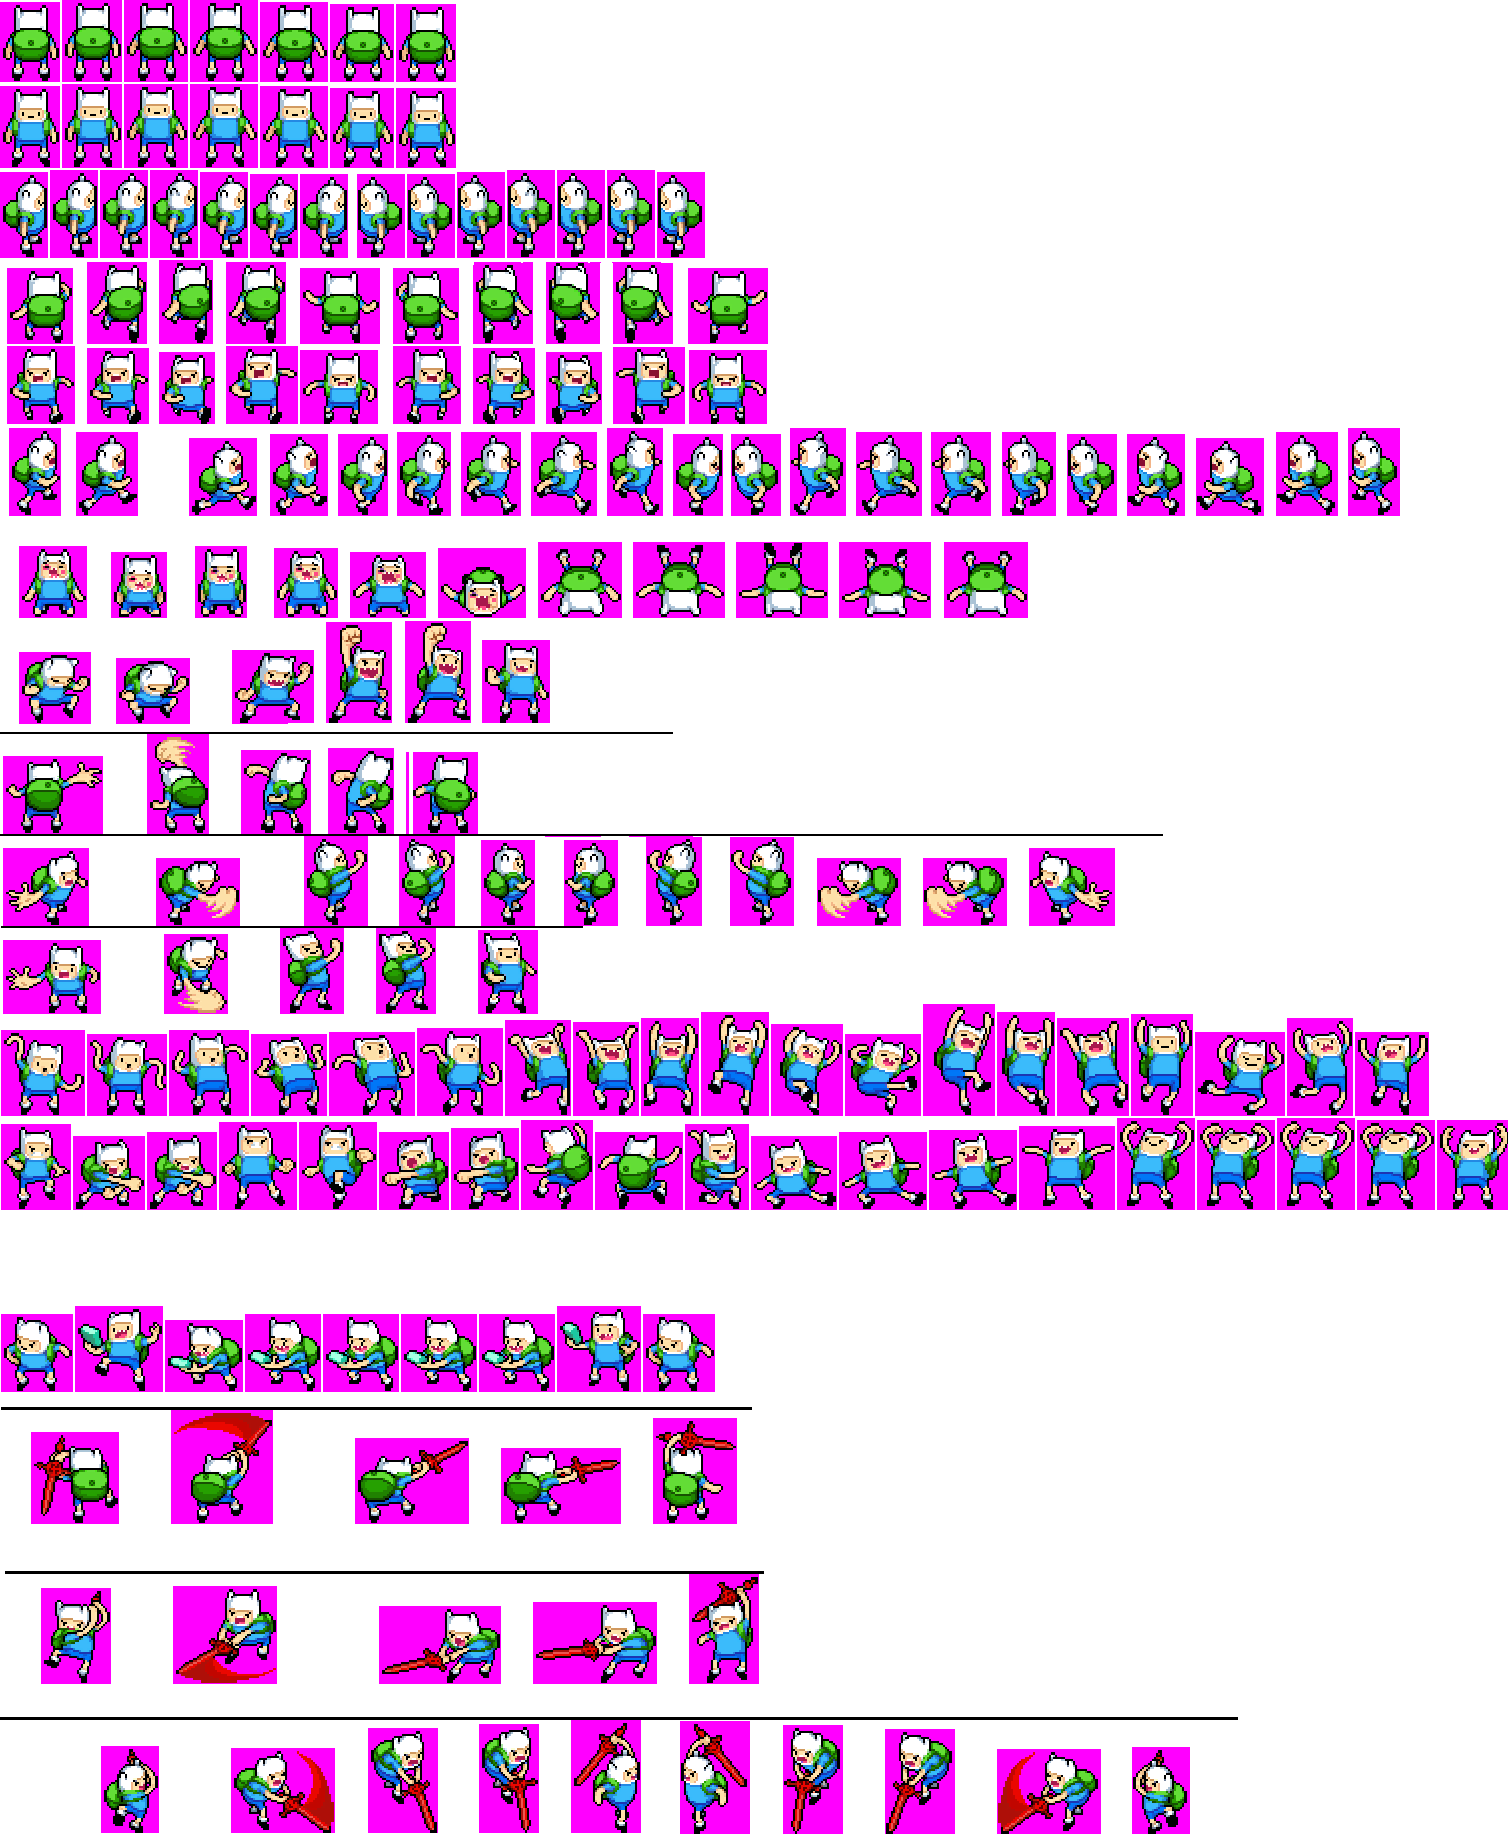
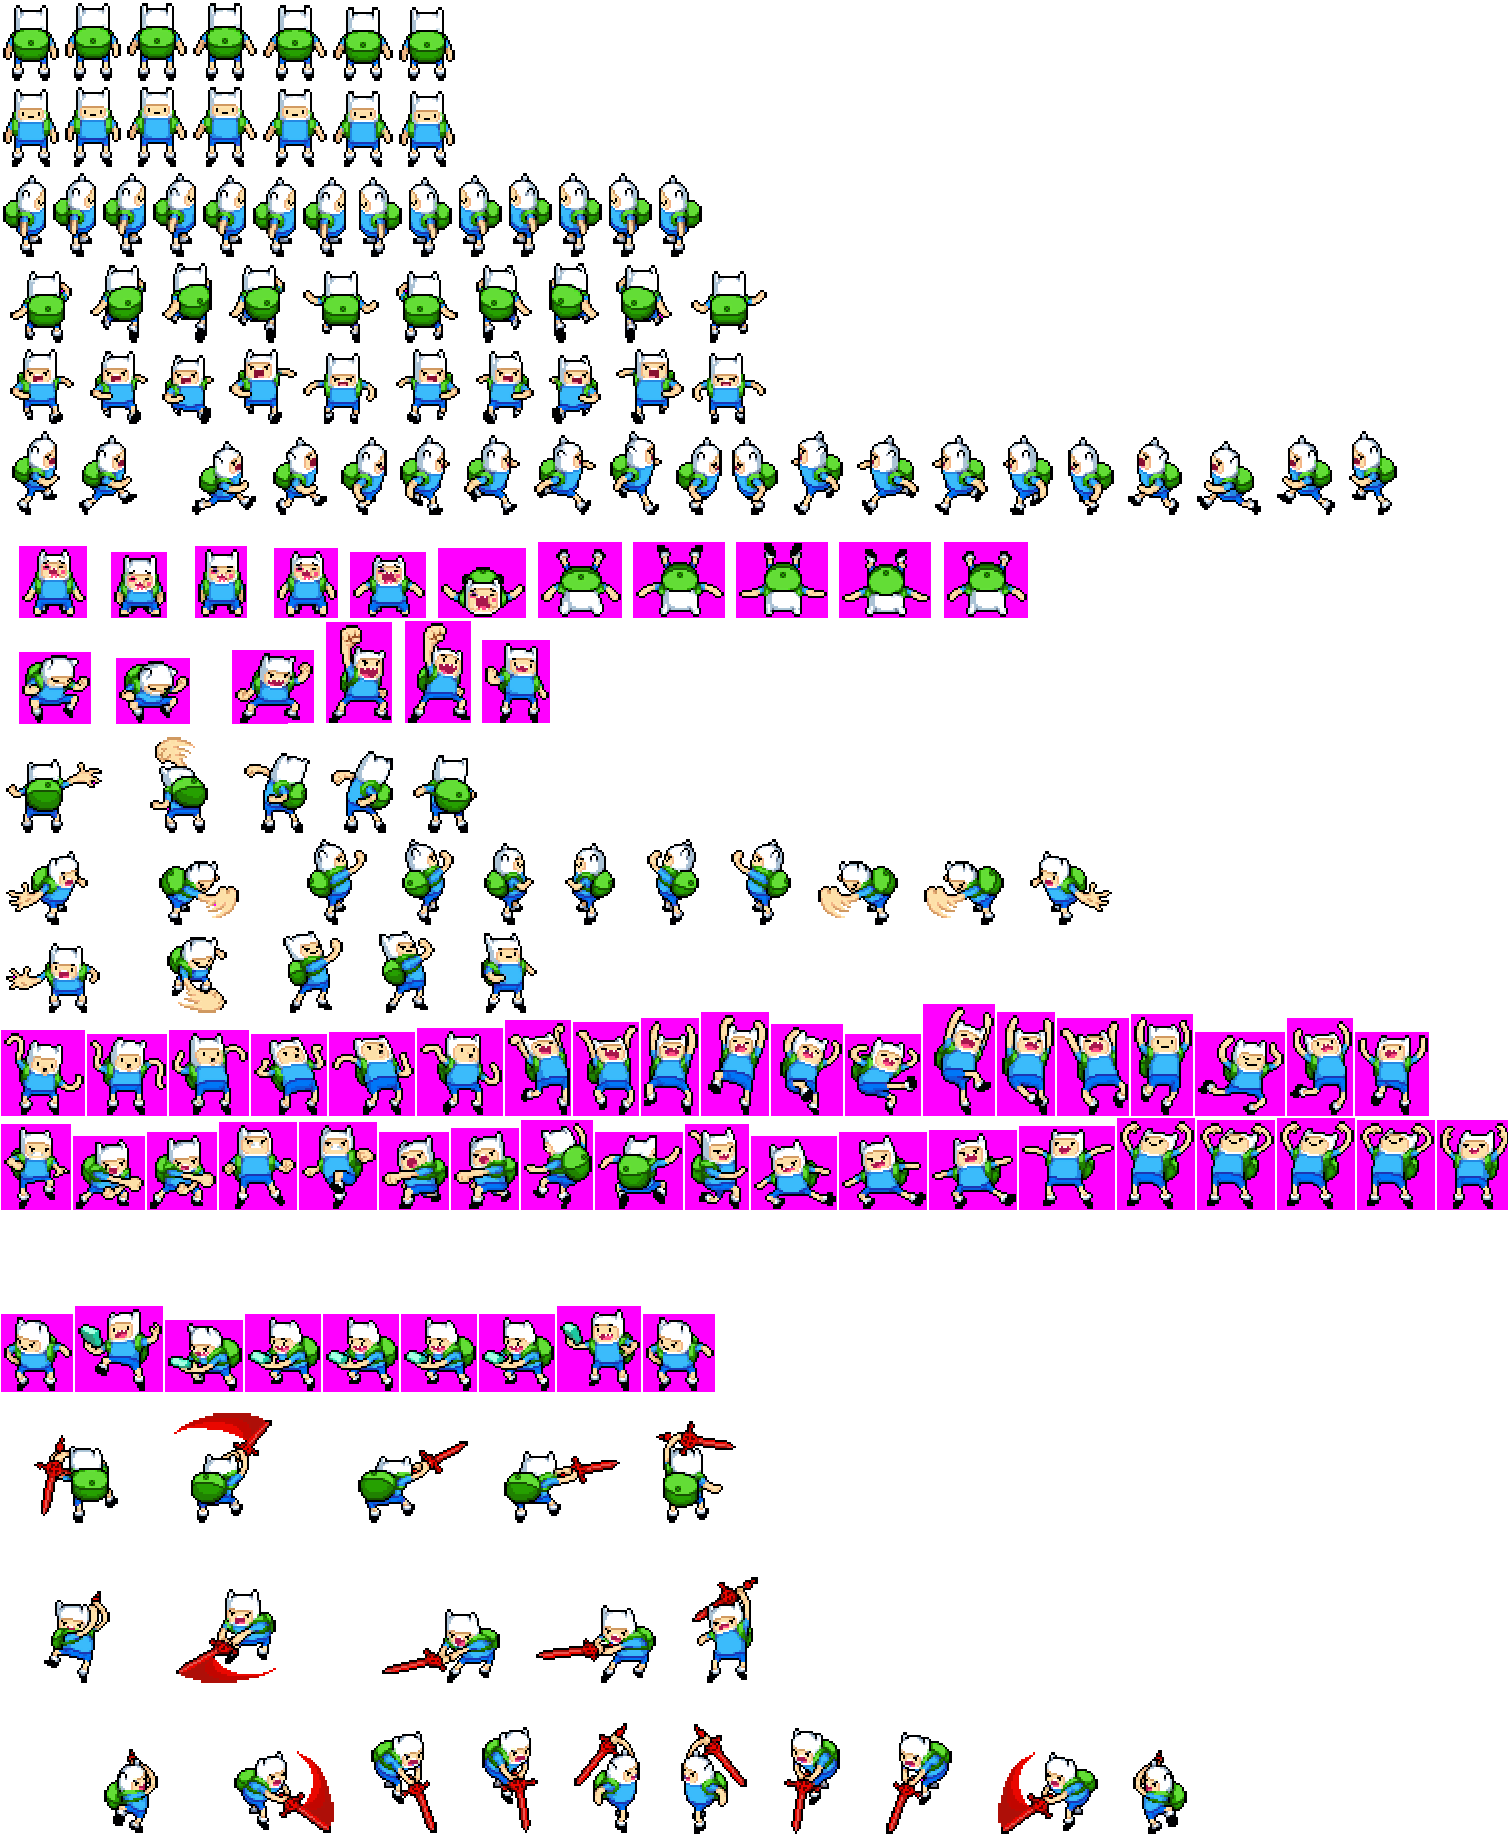
Glow effect sur les entitées vivantes. Un peu de toshop sur la sprite de finn.png

Changed region(s): [[0.0, 0.0, 0.935, 0.2797], [0.0, 0.7459, 0.8103, 1.0], [0.0, 0.373, 0.748, 0.5594]]

diff --git a/PFA - V2/GameScreen.cpp b/PFA - V2/GameScreen.cpp
@@ -9,11 +9,12 @@
 #include "Water.h"
 #include "Tree.h"
 #include "MapEnvironment.h"
-#include					"Singleton.h"
-#include					"ImageManager.h"
+#include "Singleton.h"
+#include "ImageManager.h"
 #include "Campfire.h"
 #include "Wood.h"
 #include "WoodenPlank.h"
+#include "ShadersManager.h"
 
 std::string &GameScreen::serialize() const
 {
@@ -273,13 +274,60 @@ void GameScreen::draw()
 
 		this->_map->draw(Singleton::getInstance()._window);
 
+
+
+		//sf::Vector2f savePos;
+		//if (_entitiesMap[i][j]._component != NULL && _entitiesMap[i][j]._component->getIsAMovingEntity() == false)
+		//{
+		//	savePos = _entitiesMap[i][j]._component->getPosition();
+		//	_entitiesMap[i][j]._component->setPosition(sf::Vector2f((j - _camera->_position.x) * Chunk::SIZE_OF_CELL
+		//		, (i - _camera->_position.y) * Chunk::SIZE_OF_CELL - 20));
+		//	sf::Vector2i mousePos = sf::Mouse::getPosition(*Singleton::getInstance()._window);
+
+		//	sf::Vector2f finalPos;
+
+		//	finalPos.x = (float)mousePos.x / (float)Chunk::SIZE_OF_CELL + static_cast<float>(_camera->_position.x);
+		//	finalPos.y = (float)mousePos.y / (float)Chunk::SIZE_OF_CELL + static_cast<float>(_camera->_position.y);
+
+		//	if ((int)finalPos.x == j && (int)finalPos.y == i)
+		//	{
+		//		_entitiesMap[i][j]._component->draw(_mapTexture, *ShadersManager::getInstance().get(BLOOM));
+		//	}
+
+
+
+
 		for (auto it = _players.begin(); it != _players.end(); ++it)
 		{
-			(*it)->draw(NULL);
+			sf::Vector2f savePos;
+			savePos = (*it)->getPosition();
+			sf::Vector2i mousePos = sf::Mouse::getPosition(*Singleton::getInstance()._window);
+			sf::Vector2f finalPos;
+
+			finalPos.x = (float)mousePos.x / (float)Chunk::SIZE_OF_CELL + static_cast<float>(_map->_camera->_position.x);
+			finalPos.y = (float)mousePos.y / (float)Chunk::SIZE_OF_CELL + static_cast<float>(_map->_camera->_position.y);
+
+			sf::FloatRect mouseRect(sf::Vector2f(mousePos), sf::Vector2f(2, 2));
+			if (mouseRect.intersects((*it)->getBoxCollider()))
+				(*it)->draw(_map->_mapTexture, *ShadersManager::getInstance().get(BLOOM));
+			else
+				(*it)->draw(NULL);
 		}
 		for (auto it = _entities.begin(); it != _entities.end(); ++it)
 		{
-			(*it)->draw(NULL);
+			sf::Vector2f savePos;
+			savePos = (*it)->getPosition();
+			sf::Vector2i mousePos = sf::Mouse::getPosition(*Singleton::getInstance()._window);
+			sf::Vector2f finalPos;
+
+			finalPos.x = (float)mousePos.x / (float)Chunk::SIZE_OF_CELL + static_cast<float>(_map->_camera->_position.x);
+			finalPos.y = (float)mousePos.y / (float)Chunk::SIZE_OF_CELL + static_cast<float>(_map->_camera->_position.y);
+
+			sf::FloatRect mouseRect(sf::Vector2f(mousePos), sf::Vector2f(2, 2));
+			if (mouseRect.intersects((*it)->getBoxCollider()))
+				(*it)->draw(_map->_mapTexture, *ShadersManager::getInstance().get(BLOOM));
+			else
+				(*it)->draw(NULL);
 		}
 		drawSelectionZone();
 
@@ -379,8 +427,8 @@ void GameScreen::update(void)
 	{
 		(*it)->update(*_map);
 		if ((*it)->_objective)
-			if ((*it)->_objective->getLife() <= 0 && (*it)->_objective->getIsAMovingEntity())
-				(*it)->_objective = NULL;
+		if ((*it)->_objective->getLife() <= 0 && (*it)->_objective->getIsAMovingEntity())
+			(*it)->_objective = NULL;
 		if ((*it)->getLife() <= 0)
 		{
 			for (int i = 0; i < _map->getSize().y * Chunk::NB_CELLS; ++i)
@@ -423,11 +471,11 @@ void GameScreen::update(void)
 			{
 				//delete _map->getEntitiesMap()[i][j]._component;
 				_map->getEntitiesMap()[i][j]._component = NULL;
-		/*		for (auto it = _entities.begin(); it != _entities.end(); ++it)
-				{
-					if ((*it)->getIsDead())
+				/*		for (auto it = _entities.begin(); it != _entities.end(); ++it)
+						{
+						if ((*it)->getIsDead())
 						it = _entities.erase(it);
-				}*/
+						}*/
 				//delete tmp;
 			}
 		}

diff --git a/PFA - V2/Player.cpp b/PFA - V2/Player.cpp
@@ -347,9 +347,40 @@ sf::Vector2i const Player::diffDist(sf::Vector2f&first, sf::Vector2f&second)
 	return sum;
 }
 
-void Player::draw(sf::RenderTexture *, sf::Shader &)
+void Player::draw(sf::RenderTexture *tex, sf::Shader &)
 {
+	_posDisp.x = ((_position.x - _camera->_position.x) * Chunk::SIZE_OF_CELL);
+	_posDisp.y = ((_position.y - _camera->_position.y) * Chunk::SIZE_OF_CELL);
 
+	sf::Vector2f v(0, -10);
+	//this->_anim->show(_posDisp + v);
+	_animatedSprite->setPosition(_posDisp + v);
+	ShadersManager::getInstance().get(BLOOM)->setParameter("RenderedTexture", sf::Shader::CurrentTexture);
+	Singleton::getInstance()._window->draw(*_animatedSprite, ShadersManager::getInstance().get(BLOOM));
+
+	sf::Text name;
+	name.setFont(*FontManager::getInstance().getFont(SANSATION));
+	name.setString(_name);
+	name.setCharacterSize(12);
+	name.setColor(sf::Color::Black);
+	name.setPosition(_posDisp.x - (name.getGlobalBounds().width / 8), _posDisp.y - 24);
+	Singleton::getInstance()._window->draw(name);
+
+	if (_isSelected)
+	{
+		sf::Vector2f posIcon = _posDisp;
+		sf::RectangleShape icon(sf::Vector2f(32, 32));
+		icon.setTexture(ImageManager::getInstance().get(SELECTED_ICON));
+		posIcon.y -= 52;
+		icon.setPosition(posIcon);
+
+		ShadersManager::getInstance().get(FLAG)->setParameter("texture", sf::Shader::CurrentTexture);
+		ShadersManager::getInstance().get(FLAG)->setParameter("wave_phase", _cursorTime);
+		ShadersManager::getInstance().get(FLAG)->setParameter("wave_amplitude", 2, 2);
+
+		_cursorTime += 0.025f;
+		Singleton::getInstance()._window->draw(icon, ShadersManager::getInstance().get(FLAG));
+	}
 }
 
 void Player::draw(sf::RenderTexture *)

diff --git a/PFA - V2/Bunny.cpp b/PFA - V2/Bunny.cpp
@@ -5,6 +5,7 @@
 #include "MapEnvironment.h"
 #include "Player.h"
 #include "Meat.h"
+#include "ShadersManager.h"
 
 std::string &Bunny::serialize() const
 {
@@ -191,8 +192,12 @@ void Bunny::draw(sf::RenderTexture *, sf::Shader &shader) // To edit
 	_posDisp.x = ((_position.x - _camera->_position.x) * Chunk::SIZE_OF_CELL);
 	_posDisp.y = ((_position.y - _camera->_position.y) * Chunk::SIZE_OF_CELL);
 
-	//this->_anim->show(_posDisp);
-	Singleton::getInstance()._window->draw(*_animatedSprite);
+	if (!_isDead)
+	{
+		_animatedSprite->setPosition(_posDisp);
+		ShadersManager::getInstance().get(BLOOM)->setParameter("RenderedTexture", sf::Shader::CurrentTexture);
+		Singleton::getInstance()._window->draw(*_animatedSprite, ShadersManager::getInstance().get(BLOOM));
+	}
 }
 
 void Bunny::draw(sf::RenderTexture *)

diff --git a/PFA - V2/Map.h b/PFA - V2/Map.h
@@ -129,6 +129,7 @@ private:
 	///////////////////////
 	//    MAP TEXTURE	 //
 	///////////////////////
+public: // nope
 	sf::RenderTexture		*_mapTexture;
 	sf::RenderTexture		*_waterTexture;
 
